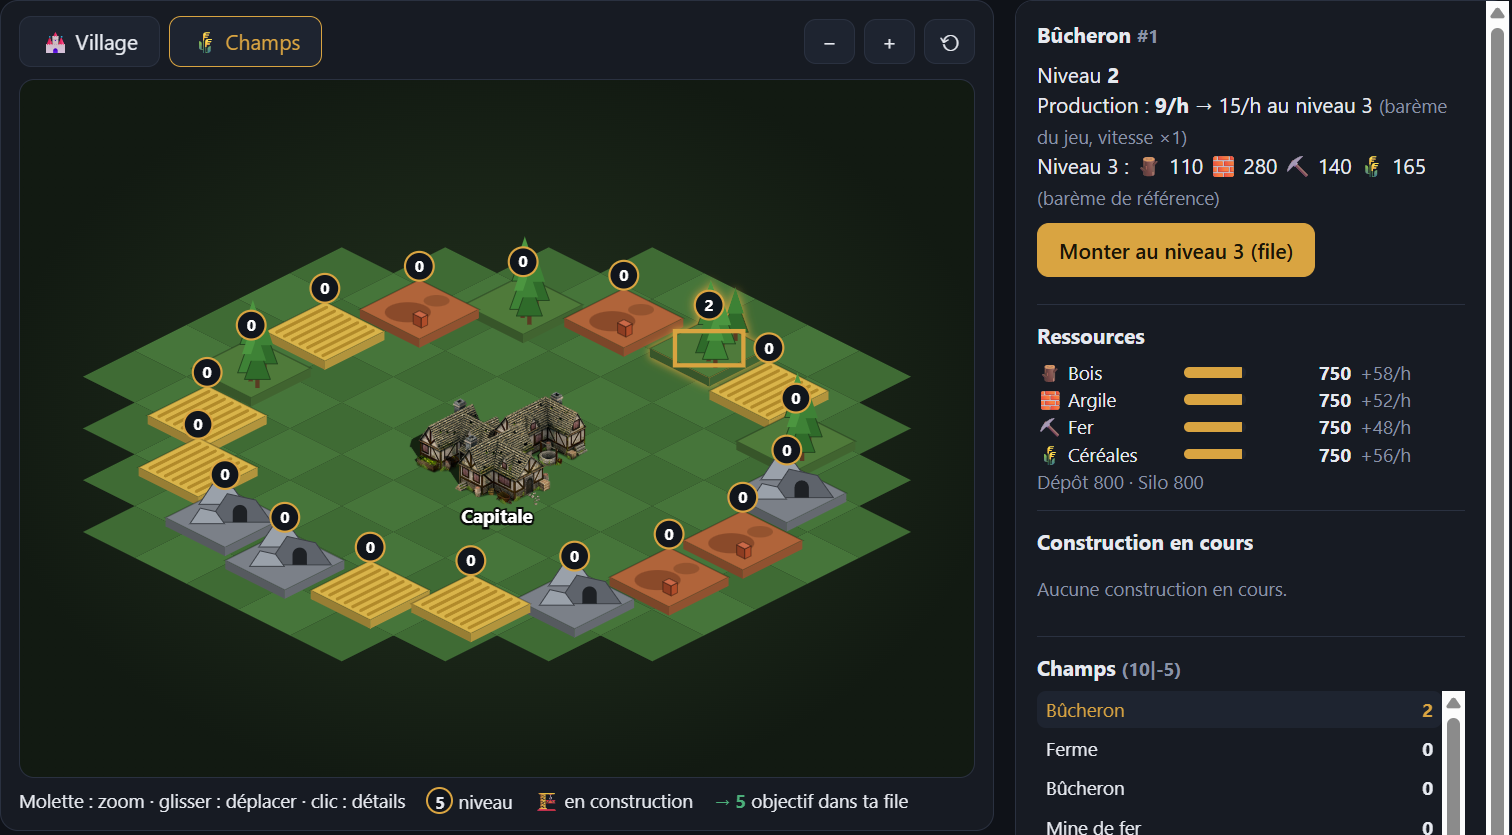
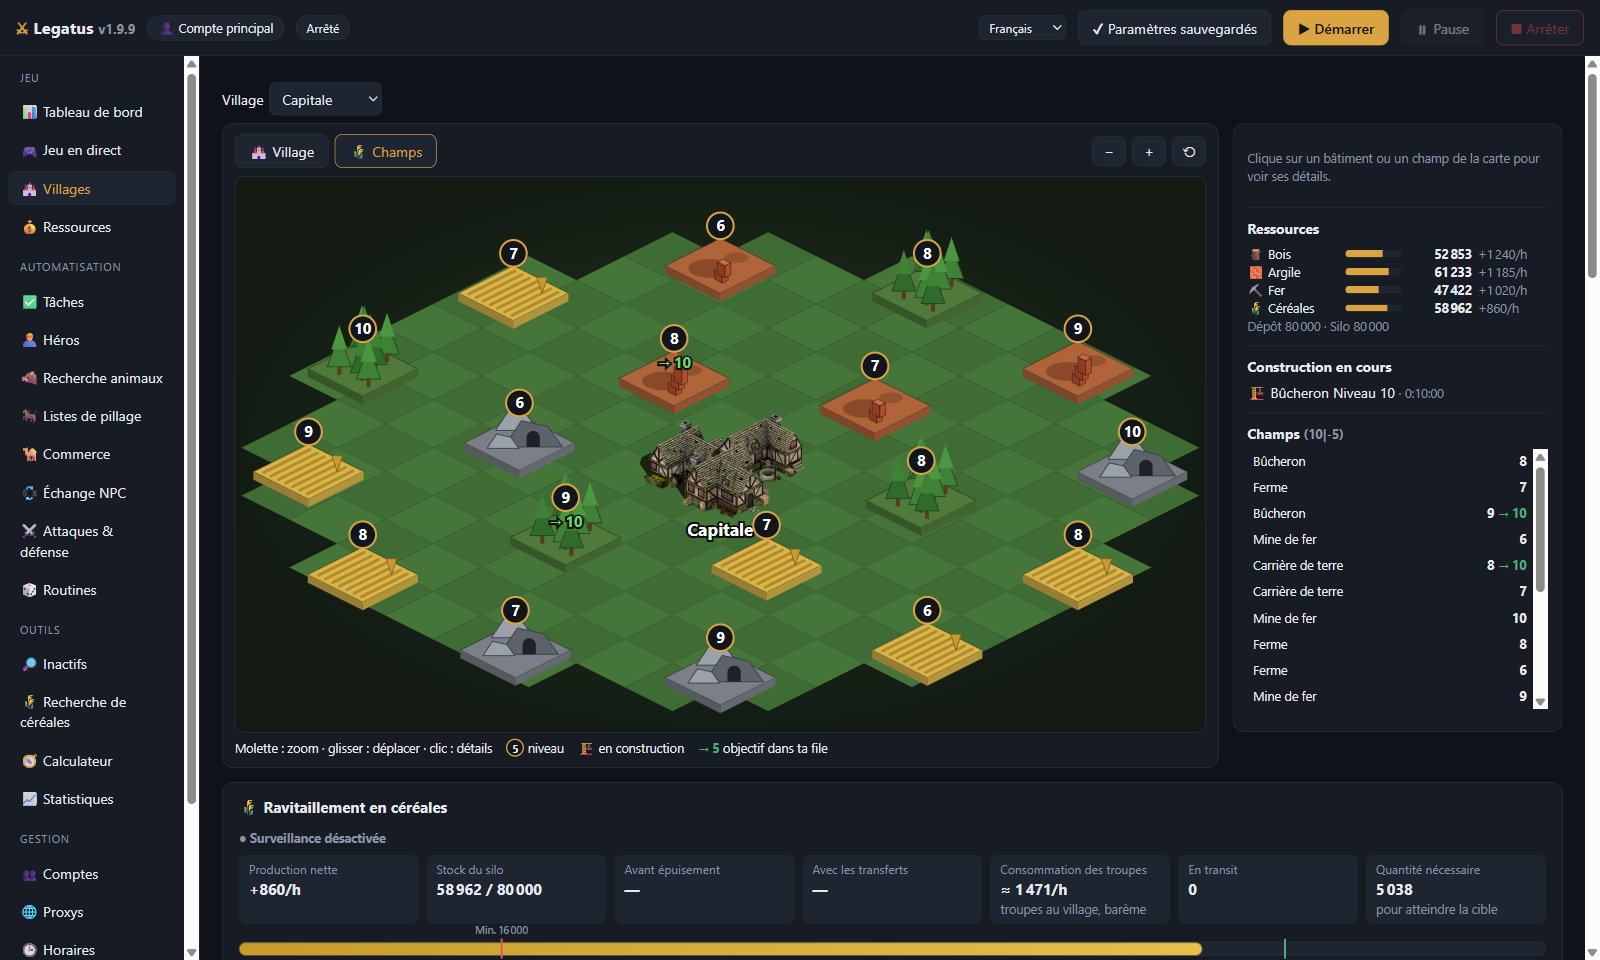
Captures de la version 1.9.9 et README à jour
Nouvelles captures (tableau de bord, village et champs en 3D, listes de pillage),
mention des 7 langues, retrait du badge de risque qui n'existe plus.

diff --git a/README.md b/README.md
@@ -1,6 +1,6 @@
 # ⚔ Legatus
 
-**Ton assistant pour Travian: Legends sur Windows.** Legatus gère tes villages pendant que tu fais autre chose : constructions, troupes, pillages, héros, commerce… le tout depuis une seule fenêtre, en français.
+**Ton assistant pour Travian: Legends sur Windows.** Legatus gère tes villages pendant que tu fais autre chose : constructions, troupes, pillages, héros, commerce… le tout depuis une seule fenêtre, en 7 langues (français, anglais, allemand, espagnol, italien, portugais, russe).
 
 ![Tableau de bord de Legatus](images/tableau-de-bord.png)
 
@@ -20,18 +20,19 @@ Une licence est nécessaire pour utiliser le bot : voir [Obtenir une licence](#-
 | 🌾 **Ravitaillement** | Surveille les céréales des villages en déficit et prépare les envois depuis tes autres villages avant la famine |
 | 🏗 **Constructions** | File d'attente par village, ce qui manque et le délai quand les ressources ne suffisent pas, champs automatiques, planificateur (économique, militaire, équilibré, expansion), modèles réutilisables |
 | ⚔ **Troupes** | Formation en boucle, forge, envois planifiés à la seconde, évacuation avant une attaque |
-| 🐎 **Pillages** | Listes de pillage du jeu, intervalles aléatoires, désactivation des cibles qui coûtent des pertes, recherche d'inactifs |
+| 🐎 **Pillages** | Listes de pillage du jeu envoyées à intervalles aléatoires avec un comportement humain (pauses, variations), désactivation des cibles qui coûtent des pertes, recherche d'inactifs |
 | 🦸 **Héros** | Aventures, répartition des points, oasis avec estimation des pertes, ressources du héros, récompenses |
 | 🐪 **Commerce** | Routes automatiques entre tes villages |
 | 📊 **Suivi** | Tableau de bord, prévisions de stock, statistiques, alertes Windows, Discord et Telegram |
 | 👥 **Multi-comptes** | Plusieurs comptes, chacun avec ses réglages |
 | 🕒 **Horaires et vitesse** | Heures d'activité par jour et vitesse Prudente, Normale ou Rapide pour jouer comme un humain |
-| 🛡 **Risque de ban** | Un badge te prévient dès qu'un réglage augmente le risque |
 | 🎮 **Jeu en direct** | Le navigateur du bot affiché dans l'appli : tu peux reprendre la main à tout moment |
 
 ![Vue isométrique du village](images/villages-3d.png)
 
 ![Vue isométrique des champs de ressources](images/champs-3d.png)
+
+![Envoi automatique des listes de pillage avec comportement humain](images/listes-pillage.png)
 
 ## 💻 Installation
 
